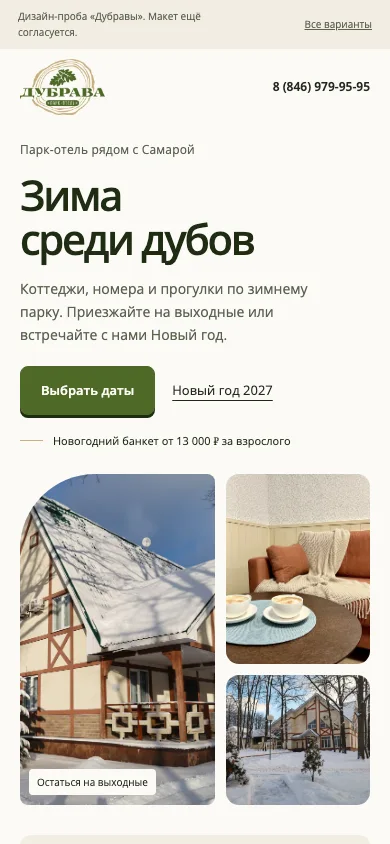
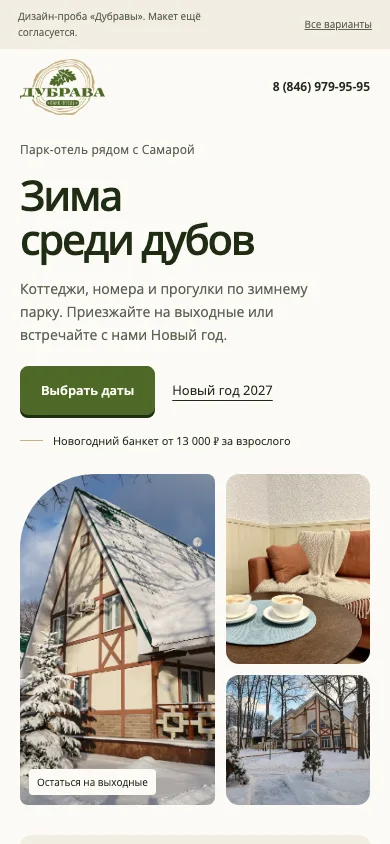
Обновление 10.11 12:23 МСК

Changed region(s): [[0.0308, 0.5545, 0.5538, 0.955]]

diff --git a/style.css b/style.css
@@ -12,5 +12,7 @@
 .review{max-width:1320px;margin:auto;padding:45px 32px 65px}.review h1{font-size:clamp(37px,5vw,68px);max-width:820px;line-height:1.1}.review .lead{font-size:17px;color:var(--muted);max-width:780px;margin:22px 0 30px}.review-links{display:flex;gap:20px;flex-wrap:wrap;margin-bottom:45px}.review h2{font-size:30px;margin:0 0 12px}.direction{padding:35px 0;border-top:1px solid var(--line)}.direction-head{display:flex;gap:30px;align-items:flex-start;justify-content:space-between;margin-bottom:25px}.direction-head p{font-size:15px;color:var(--muted);max-width:700px}.comparison{display:grid;grid-template-columns:1fr 215px;gap:24px;align-items:start}.comparison img{height:auto;border:1px solid var(--line);border-radius:9px}.comparison small{display:block;font-size:12px;color:var(--muted);margin-bottom:8px}.comparison a{display:block}.status-box{border-left:3px solid var(--green);padding:15px 22px;margin:15px 0 30px;background:var(--cream)}.status-box p{font-size:14px;line-height:1.7}.booking-page{padding:35px;max-width:1320px;margin:auto}.booking-page h1{font-size:38px;margin:20px 0}.booking-page p{max-width:850px;font-size:15px;color:var(--muted)}#tl-booking-form{min-height:600px;margin-top:30px}.booking-help{margin:20px 0;font-size:14px}.booking-help a{text-decoration:underline}
 @keyframes breathe{0%,100%{box-shadow:0 3px 0 var(--deep),0 0 0 0 #4e6a2700}50%{box-shadow:0 3px 0 var(--deep),0 0 18px 2px #4e6a2720}}@keyframes glint{0%,70%{transform:translateX(-100%)}100%{transform:translateX(100%)}}
 @media(prefers-reduced-motion:reduce){html{scroll-behavior:auto}.button{transition:none;animation-duration:8s}.button::after{animation-duration:14s}}
+@media(max-width:600px){.photo-story .main-shot img{object-position:40% 50%}}
+@media(max-width:360px){.editorial .hotel-word{font-size:72px!important}}
 @media(max-width:900px){.nav{gap:18px}.tel{margin-left:auto}.header{gap:20px;padding:7px 25px}.hero p{font-size:15px}.photo-story .hero{grid-template-columns:1fr 1.1fr .55fr;grid-template-rows:220px 220px;padding:12px 25px 25px}.photo-story .hero-copy{padding-right:10px}.photo-story h1{font-size:50px}.editorial .spread{gap:24px;grid-template-columns:1.1fr 1fr}.editorial .detail-shot{display:none}.booking-strip{margin-left:25px;margin-right:25px;gap:20px}.ny{margin:0 25px}.offers{gap:20px}.offer h3{font-size:20px}.structure{margin-left:25px;margin-right:25px}}
 @media(max-width:600px){.draft{font-size:10px;padding:9px 18px;align-items:center}.draft span{max-width:205px}.header{height:76px;padding:4px 20px}.logo{width:85px;height:65px}.nav{display:none}.tel{font-size:12px}.hero h1{font-size:42px}.hero p{font-size:14px;line-height:1.65;max-width:330px}.place{font-size:12px;margin-bottom:13px}.button{font-size:13px;min-height:49px;padding:13px 20px}.actions{margin-top:20px;gap:17px}.link{font-size:13px}.season-link{font-size:11px;gap:10px;padding-top:20px}.season-link::before{width:23px}.panorama .hero{margin:0 14px;min-height:0;max-height:none;height:auto;display:flex;flex-direction:column;border-radius:16px;overflow:hidden}.panorama .hero-photo{position:relative;height:290px;object-position:54% 55%;order:0}.panorama .hero::after{display:none}.panorama .hero-copy{width:auto;min-height:0;padding:25px 21px 28px;order:1;background:var(--cream)}.panorama .hero h1{font-size:40px;line-height:1.07;margin-bottom:16px}.panorama .hero .place{margin-bottom:12px}.panorama .hero .photo-label{top:247px;bottom:auto;right:12px;font-size:10px}.panorama .hero-copy .season-link{padding-top:19px}.photo-story .hero{padding:10px 20px 25px;grid-template-columns:1.35fr 1fr;grid-template-rows:auto 190px 130px;gap:11px;min-height:0}.photo-story .hero-copy{grid-column:1/3;grid-row:1;padding:6px 0 14px}.photo-story .hero h1{font-size:42px;line-height:1.05;max-width:330px;margin-bottom:16px}.photo-story .hero-copy p{font-size:14px;max-width:320px}.photo-story .main-shot{grid-column:1;grid-row:2/4;border-radius:75px 8px 8px 8px}.photo-story .small-shot{grid-column:2;grid-row:2}.photo-story .small-shot:last-child{grid-row:3;margin:0}.photo-story .photo-label{font-size:10px;left:9px;bottom:10px;padding:6px 8px}.photo-story .season-link{padding-top:17px}.editorial .hero{padding:0 20px 25px}.editorial .hotel-word{font-size:89px;letter-spacing:-.07em;line-height:1.1;margin-bottom:18px}.editorial .spread{grid-template-columns:1fr;gap:0}.editorial .main-shot{height:288px;border-radius:5px 90px 5px 5px}.editorial .hero-copy{padding:24px 0 0}.editorial .hero h1{font-size:39px;line-height:1.1;margin-bottom:16px}.editorial .hero p{font-size:14px}.booking-strip{margin:5px 20px 35px;padding:22px;display:block;border-radius:11px}.booking-strip h2{font-size:22px;margin-bottom:12px}.booking-strip p{font-size:13px}.booking-strip .button{margin:20px 0 0;width:100%}.ny{margin:0 14px;padding:30px 22px;border-radius:15px}.ny-title{display:block}.ny-date{font-size:11px;line-height:1.5;margin-bottom:13px}.ny-title h2{font-size:30px;line-height:1.13}.ny-title p{font-size:13px;margin-top:17px}.offers{grid-template-columns:1fr;gap:24px;margin-top:28px}.offer{padding-top:20px}.offer h3{font-size:22px;margin:9px 0 16px}.price{font-size:32px}.offer .link{margin-top:17px}.ny-note{font-size:11px;line-height:1.6;margin-top:27px}.stay{padding:45px 20px 25px}.stay-top{display:block;margin-bottom:22px}.stay-top h2{font-size:30px;max-width:330px}.stay-top p{font-size:14px;margin-top:18px}.stay-photos{grid-template-columns:1fr 1fr;height:auto;gap:12px}.stay-photos figure{height:210px}.stay-photos figure:first-child{grid-column:1/3;height:240px}.stay-photos figure:nth-child(2),.stay-photos figure:nth-child(3){margin:0}.stay figcaption{font-size:10px;bottom:10px;left:9px;padding:6px 9px}.structure{padding:19px 0;margin:10px 20px 30px}.structure summary{font-size:14px;line-height:1.5}.structure ol{columns:1;font-size:13px;line-height:2}.structure p{font-size:12px}.footer{padding:25px 20px;display:grid;grid-template-columns:1fr 1fr;gap:20px}.footer p{grid-column:1/3;font-size:11px}.footer a{font-size:13px}.review{padding:30px 20px}.review h1{font-size:37px}.review .lead{font-size:15px;margin:20px 0}.review-links{gap:15px;margin-bottom:30px}.direction{padding:28px 0}.direction-head{display:block}.direction-head h2{font-size:27px}.direction-head p{font-size:14px}.direction-head .button{margin-top:20px}.comparison{grid-template-columns:1fr 95px;gap:12px}.comparison small{font-size:10px}.status-box{padding:14px 16px}.status-box p{font-size:13px}.booking-page{padding:25px 18px}.booking-page h1{font-size:30px}.booking-page p{font-size:13px}#tl-booking-form{min-height:600px}}
